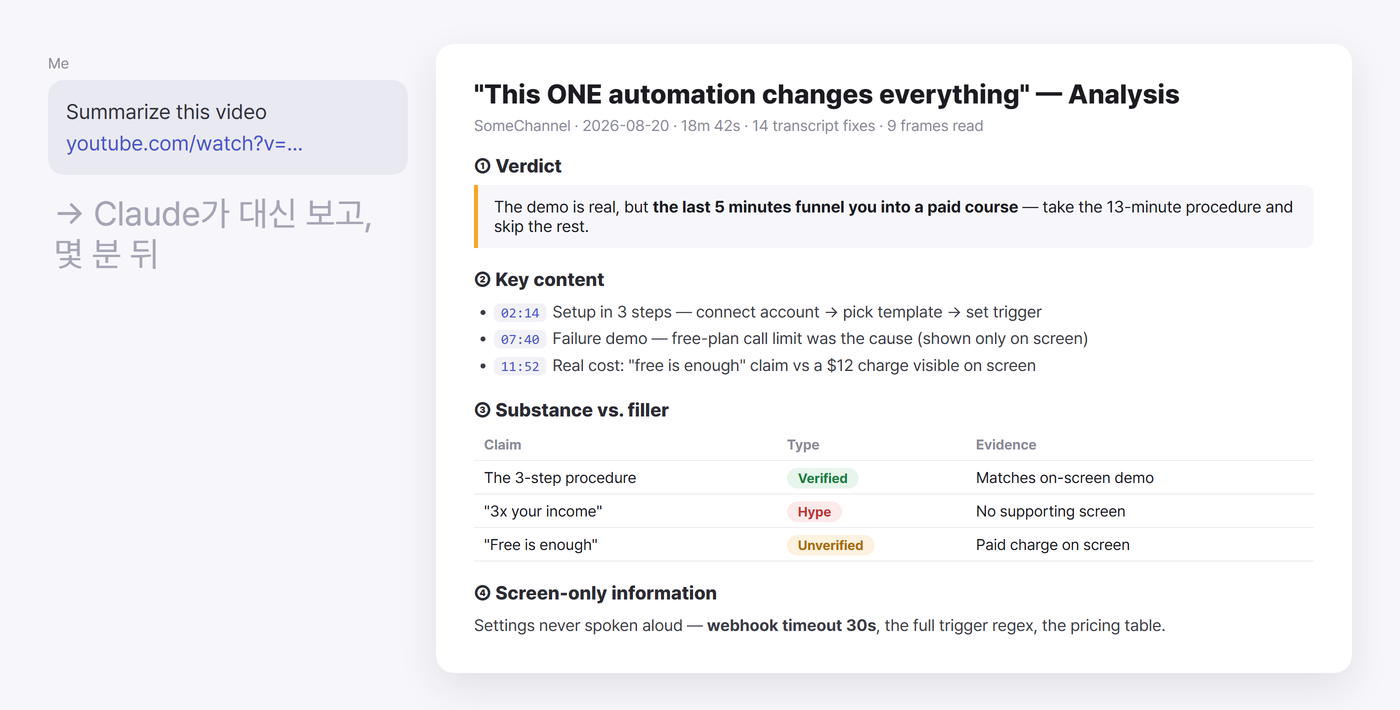
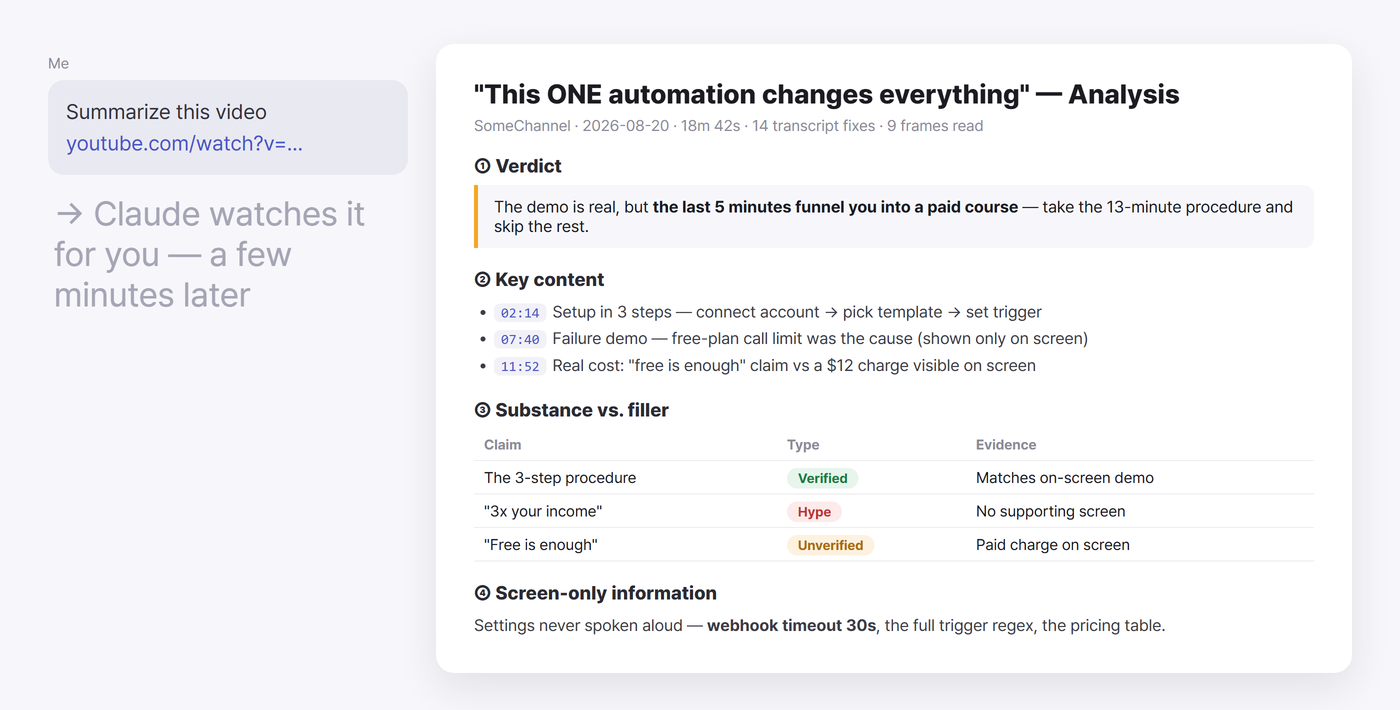
fix(en): remove leftover Korean from the English demo image; native-polish the English section
The chat-bubble caption in demo-report-en.png was still Korean. Re-rendered fully in English; smoothed non-native phrasing in the EN section (judgment, your-language line, table rows, support line).

Changed region(s): [[0.0307, 0.2789, 0.2764, 0.3718], [0.0307, 0.4028, 0.1843, 0.4338]]

diff --git a/README.md b/README.md
@@ -72,20 +72,20 @@ That's it. Claude checks and installs what it needs (yt-dlp, ffmpeg, deno if req
 > Summarize this video: https://youtu.be/...
 
 <div align="center">
-<img src="assets/demo-report-en.png" width="860" alt="One link in — verdict, key content and verification out" />
+<img src="assets/demo-report-en.png" width="860" alt="One link in — verdict, key content, and verification out" />
 </div>
 
-Not a summary — a **judgement**. The skill transcribes the video (free, subtitle-based),
-cross-checks what appeared on screen, and returns a chat report instead of a wall of text.
-Reports come back in **your language** — the skill itself is bilingual-friendly:
+Not a summary — a **judgment**. The skill transcribes the video (free, subtitle-based),
+cross-checks what actually appeared on screen, and returns a chat report instead of a wall of text —
+in **your language**, whatever you ask in:
 
 | Section | What you get |
 |---|---|
-| ① Verdict | What this video is, and whether it's trustworthy |
+| ① Verdict | What this video really is — and whether you can trust it |
 | ② Key content | Timestamped summary — so you don't have to watch |
-| ③ Substance vs. filler | Verified facts / unverified claims / hype, separated |
+| ③ Substance vs. filler | Verified facts / unverified claims / hype, kept separate |
 | ④ Screen-only information | Code, settings, numbers that were never spoken aloud |
-| ⑤ For your situation | Insights mapped to your context (only when visible in the conversation) |
+| ⑤ For your situation | What it means for you — when your context shows in the conversation |
 | ⑥ Next steps | Concrete ways to build on it — set it up, verify claims, save a summary |
 
 ### Highlights
@@ -96,7 +96,7 @@ Reports come back in **your language** — the skill itself is bilingual-friendl
 
 Requires Python 3.9+. Everything else is Claude's job.
 
-If this skill saved you an hour of watching — a ⭐ means a lot, and the **♥ Sponsor** button is up top.
+If this skill just saved you an hour of watching, a ⭐ goes a long way — and there's a **♥ Sponsor** button up top.
 
 ---
 
